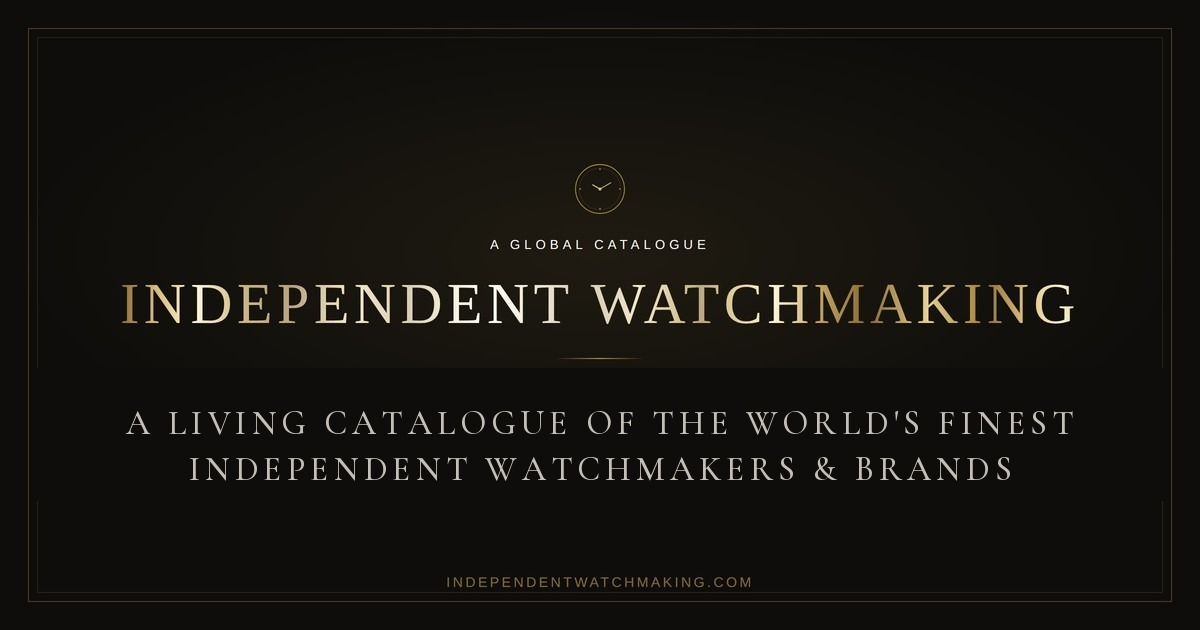
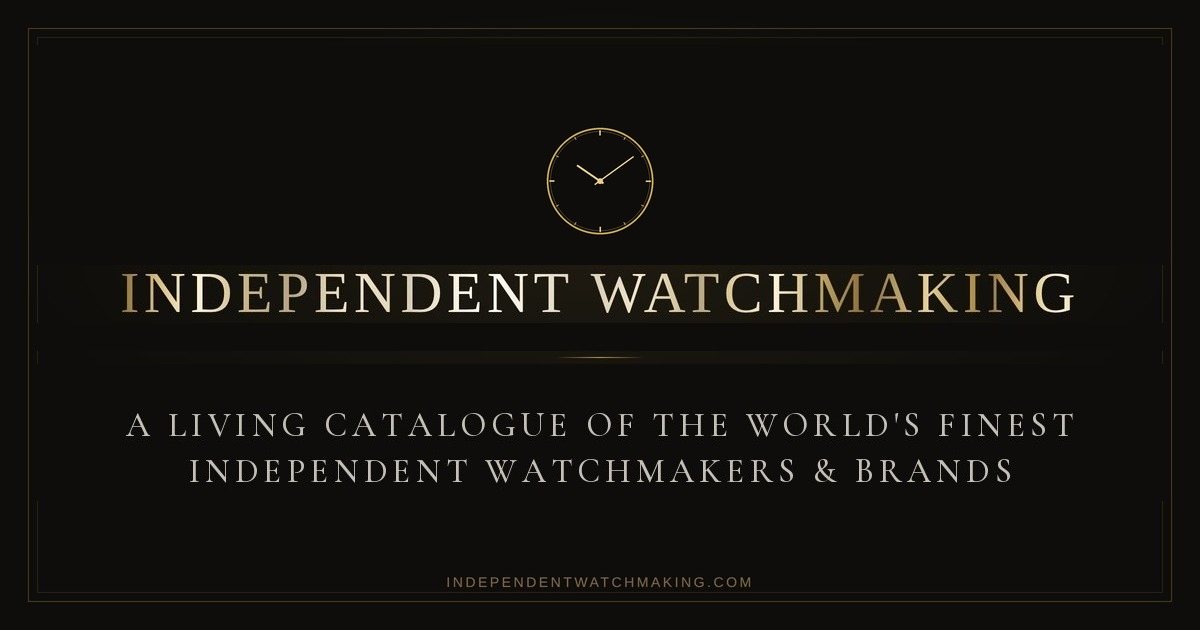
Add files via upload

diff --git a/index.html b/index.html
@@ -1219,7 +1219,10 @@
           #la-clouds.visible { opacity: 1; }
         </style>
         <!-- White dial -->
-        <circle cx="100" cy="100" r="98" fill="#FAF8F4" stroke="url(#la-metallic-gold)" stroke-width="3"/>
+        <circle cx="100" cy="100" r="98" fill="#FAF8F4"/>
+        <circle cx="100" cy="100" r="96" fill="none" stroke="url(#la-metallic-gold)" stroke-width="7"/>
+        <circle cx="100" cy="100" r="99.1" fill="none" stroke="#FFF6D8" stroke-width="0.7" opacity="0.85"/>
+        <circle cx="100" cy="100" r="92.9" fill="none" stroke="#4A3812" stroke-width="0.8" opacity="0.75"/>
         <circle cx="100" cy="100" r="92" fill="none" stroke="url(#la-metallic-gold-soft)" stroke-width="0.75" opacity="0.6"/>
         <g id="la-minute-track" stroke="#1E4D8C"></g>
         <!-- City label -->
@@ -1384,7 +1387,10 @@
             <stop offset="100%" stop-color="#FF6600" stop-opacity="0"/>
           </radialGradient>
         </defs>
-        <circle cx="100" cy="100" r="98" fill="#FAF8F4" stroke="url(#ny-metallic-gold)" stroke-width="3"/>
+        <circle cx="100" cy="100" r="98" fill="#FAF8F4"/>
+        <circle cx="100" cy="100" r="96" fill="none" stroke="url(#ny-metallic-gold)" stroke-width="7"/>
+        <circle cx="100" cy="100" r="99.1" fill="none" stroke="#FFF6D8" stroke-width="0.7" opacity="0.85"/>
+        <circle cx="100" cy="100" r="92.9" fill="none" stroke="#4A3812" stroke-width="0.8" opacity="0.75"/>
         <circle cx="100" cy="100" r="92" fill="none" stroke="url(#ny-metallic-gold-soft)" stroke-width="0.75" opacity="0.6"/>
         <g id="ny-minute-track" stroke="#1E4D8C"></g>
         <text x="100" y="48" text-anchor="middle" font-family="'Cormorant Garamond', Georgia, serif" font-style="italic" font-weight="500" letter-spacing="0.06em" font-size="15" fill="#1E4D8C">Miami</text>
@@ -1559,7 +1565,10 @@
         </defs>
 
         <!-- Outer gold rim, white dial -->
-        <circle cx="100" cy="100" r="98" fill="#FAF8F4" stroke="url(#g-metallic-gold)" stroke-width="3"/>
+        <circle cx="100" cy="100" r="98" fill="#FAF8F4"/>
+        <circle cx="100" cy="100" r="96" fill="none" stroke="url(#g-metallic-gold)" stroke-width="7"/>
+        <circle cx="100" cy="100" r="99.1" fill="none" stroke="#FFF6D8" stroke-width="0.7" opacity="0.85"/>
+        <circle cx="100" cy="100" r="92.9" fill="none" stroke="#4A3812" stroke-width="0.8" opacity="0.75"/>
         <circle cx="100" cy="100" r="92" fill="none" stroke="url(#g-metallic-gold-soft)" stroke-width="0.75" opacity="0.6"/>
 
         <!-- Railroad minute track -->
@@ -1747,7 +1756,10 @@
             <stop offset="100%" stop-color="#FF6600" stop-opacity="0"/>
           </radialGradient>
         </defs>
-        <circle cx="100" cy="100" r="98" fill="#FAF8F4" stroke="url(#db-metallic-gold)" stroke-width="3"/>
+        <circle cx="100" cy="100" r="98" fill="#FAF8F4"/>
+        <circle cx="100" cy="100" r="96" fill="none" stroke="url(#db-metallic-gold)" stroke-width="7"/>
+        <circle cx="100" cy="100" r="99.1" fill="none" stroke="#FFF6D8" stroke-width="0.7" opacity="0.85"/>
+        <circle cx="100" cy="100" r="92.9" fill="none" stroke="#4A3812" stroke-width="0.8" opacity="0.75"/>
         <circle cx="100" cy="100" r="92" fill="none" stroke="url(#db-metallic-gold-soft)" stroke-width="0.75" opacity="0.6"/>
         <g id="db-minute-track" stroke="#1E4D8C"></g>
         <text x="100" y="48" text-anchor="middle" font-family="'Cormorant Garamond', Georgia, serif" font-style="italic" font-weight="500" letter-spacing="0.06em" font-size="15" fill="#1E4D8C">Dubai</text>
@@ -1913,7 +1925,10 @@
             <stop offset="100%" stop-color="#FF6600" stop-opacity="0"/>
           </radialGradient>
         </defs>
-        <circle cx="100" cy="100" r="98" fill="#FAF8F4" stroke="url(#t-metallic-gold)" stroke-width="3"/>
+        <circle cx="100" cy="100" r="98" fill="#FAF8F4"/>
+        <circle cx="100" cy="100" r="96" fill="none" stroke="url(#t-metallic-gold)" stroke-width="7"/>
+        <circle cx="100" cy="100" r="99.1" fill="none" stroke="#FFF6D8" stroke-width="0.7" opacity="0.85"/>
+        <circle cx="100" cy="100" r="92.9" fill="none" stroke="#4A3812" stroke-width="0.8" opacity="0.75"/>
         <circle cx="100" cy="100" r="92" fill="none" stroke="url(#t-metallic-gold-soft)" stroke-width="0.75" opacity="0.6"/>
         <g id="t-minute-track" stroke="#1E4D8C"></g>
         <text x="100" y="48" text-anchor="middle" font-family="'Cormorant Garamond', Georgia, serif" font-style="italic" font-weight="500" letter-spacing="0.06em" font-size="15" fill="#1E4D8C">Tokyo</text>
@@ -2079,7 +2094,10 @@
             <stop offset="100%" stop-color="#FF6600" stop-opacity="0"/>
           </radialGradient>
         </defs>
-        <circle cx="100" cy="100" r="98" fill="#FAF8F4" stroke="url(#sy-metallic-gold)" stroke-width="3"/>
+        <circle cx="100" cy="100" r="98" fill="#FAF8F4"/>
+        <circle cx="100" cy="100" r="96" fill="none" stroke="url(#sy-metallic-gold)" stroke-width="7"/>
+        <circle cx="100" cy="100" r="99.1" fill="none" stroke="#FFF6D8" stroke-width="0.7" opacity="0.85"/>
+        <circle cx="100" cy="100" r="92.9" fill="none" stroke="#4A3812" stroke-width="0.8" opacity="0.75"/>
         <circle cx="100" cy="100" r="92" fill="none" stroke="url(#sy-metallic-gold-soft)" stroke-width="0.75" opacity="0.6"/>
         <g id="sy-minute-track" stroke="#1E4D8C"></g>
         <text x="100" y="48" text-anchor="middle" font-family="'Cormorant Garamond', Georgia, serif" font-style="italic" font-weight="500" letter-spacing="0.06em" font-size="15" fill="#1E4D8C">Sydney</text>
@@ -2242,7 +2260,10 @@
         </defs>
 
         <!-- Outer gold rim -->
-        <circle cx="100" cy="100" r="98" fill="#0E0D0B" stroke="url(#metallic-gold)" stroke-width="3"/>
+        <circle cx="100" cy="100" r="98" fill="#0E0D0B"/>
+        <circle cx="100" cy="100" r="96" fill="none" stroke="url(#metallic-gold)" stroke-width="7"/>
+        <circle cx="100" cy="100" r="99.1" fill="none" stroke="#FFF6D8" stroke-width="0.7" opacity="0.85"/>
+        <circle cx="100" cy="100" r="92.9" fill="none" stroke="#4A3812" stroke-width="0.8" opacity="0.75"/>
         <circle cx="100" cy="100" r="92" fill="none" stroke="url(#metallic-gold-soft)" stroke-width="0.75" opacity="0.6"/>
 
         <!-- Railroad minute track -->